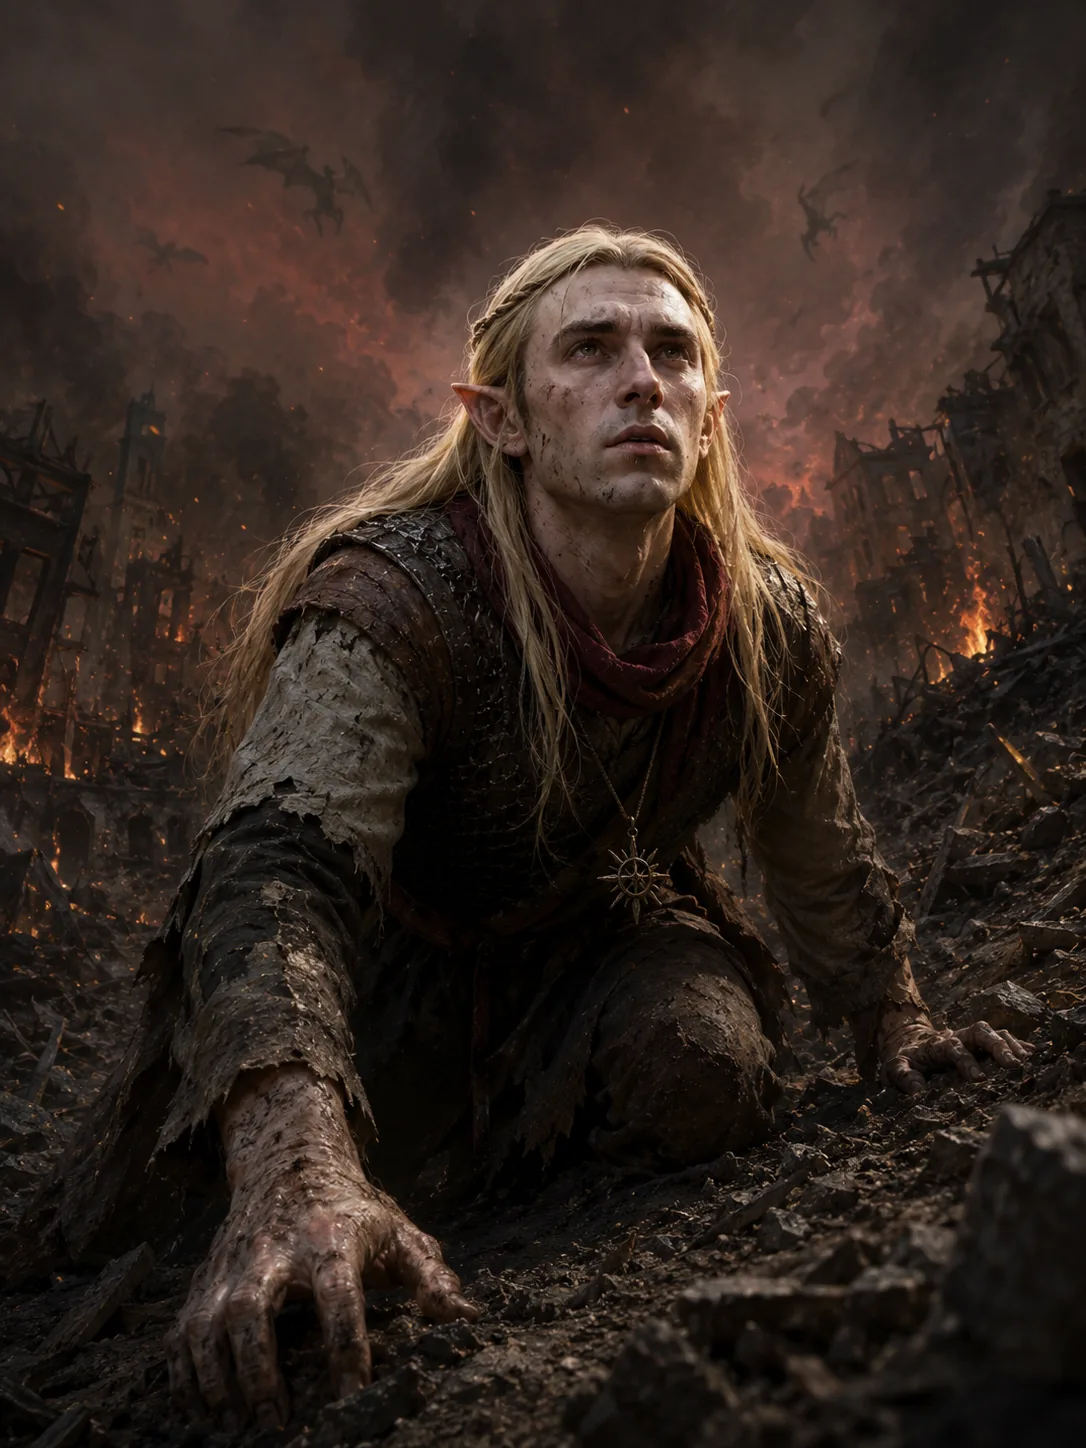
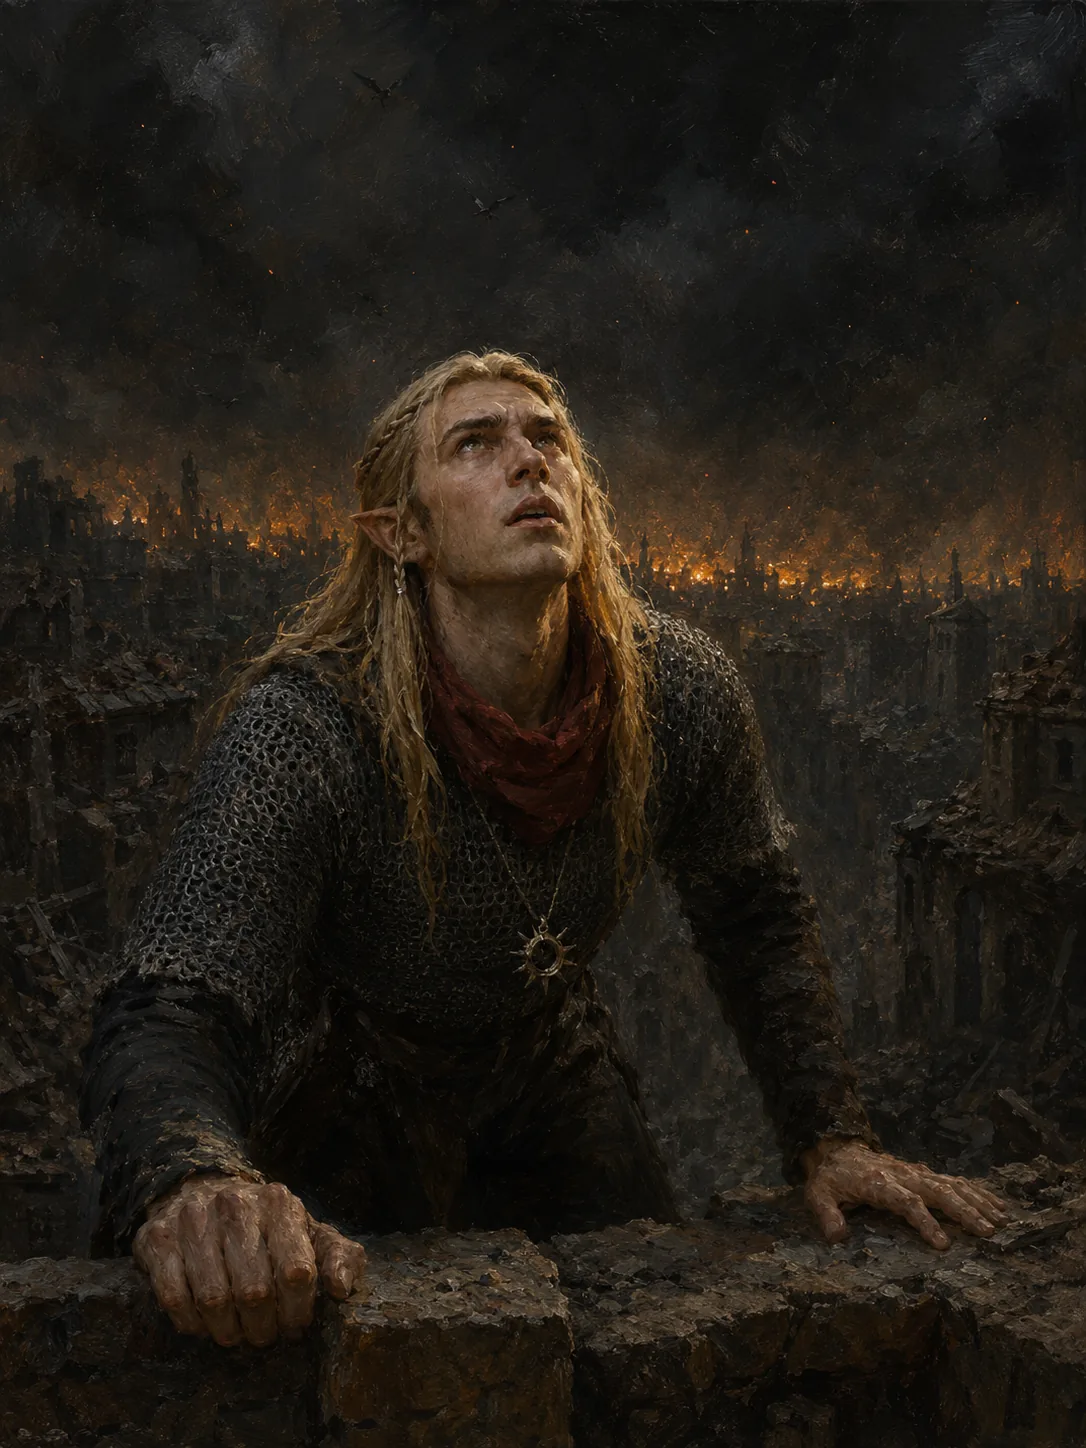
Re-roll the burning sky as a painting
The original was photoreal: wide-angle, near hand thrown huge into the
foreground, and a saturated orange-red sky over the whole frame. Rebuilt
from scratch on the style guide's medium block with the camera words in
Avoid.

The chapter text settled the palette -- the prose has the heavens hang
black and raining embers -- so the sky is near-black and the one warm
accent is a band of burning quarters confined to the horizon. Camera on a
normal lens with the hands at true proportion.

Holds its job as the Era I exemplar in the kit guide: chain shirt over
travel robes, deep-red scarf, bare sunburst with no sword, no gold and no
mantle.

Accepted drift: the sunburst reads brass rather than dull iron, and the
instant is half a beat earlier than the old plate -- hauling himself over
the lip rather than already up on hands and knees.

diff --git a/bible/07-art-reroll-list.md b/bible/07-art-reroll-list.md
@@ -20,20 +20,6 @@ with a counter-example.
 
 ## To do
 
-### `the-burning-sky.webp` — **wrong style**
-*Book I, "Varic claws his way up to his first open sky in days" — Kenabres broken above him.*
-
-It is a **photograph, not a painting**: photoreal skin, a wide-angle lens look with the near hand
-thrown huge into the foreground, and a saturated orange-red sky filling the whole frame. The house
-look wants a traditional oil painting, a muted earthy palette, and **one** luminous accent rather
-than an all-over red wash. Lead the prompt with the medium block from the style guide and put the
-camera words in `Avoid:`. The pose and the beat are right — he is on his hands and knees at the top
-of the climb, looking up at a sky he expected to be daylight — so keep them.
-
-**Cited as an exemplar:** `05-kit-and-timeline.md` Era I uses it for *"Varic's Era I kit — the humble
-priest, no gold."* The re-roll must keep that legible: chain shirt or padded leather over travel
-robes, deep-red scarf, plain iron sunburst, **no gold filigree, no mantle**.
-
 ### `the-doors-that-would-not-open.webp` — **Harlock unconvincing, and the style is wrong**
 *Book II Ch. IX, "The Silencing of the Catapults" — while the fight rages above him, Varic kneels at
 an ironbound door and makes it stop being a door at all.*
@@ -215,6 +201,23 @@ Regenerate to the humble kit, or accept the drift and note it as accepted.
 ---
 
 ## Done
+
+### `the-burning-sky.webp` — re-rolled Aug 2026
+*Book I, "The Sundered Sky".*
+
+The original was a photograph — photoreal skin, a wide-angle look with the near hand thrown huge into
+the foreground, and a saturated orange-red sky filling the frame. Rebuilt from scratch on the medium
+block, with every camera word in `Avoid:`. **The chapter text settled the palette argument**: the
+prose says the heavens hang *black* and raining embers, so the sky is now near-black and turbulent
+and the single warm accent is a low band of burning quarters confined to the horizon, rimming his
+jaw and shoulder from below. The picture reads dark grey, not orange. Camera moved to a normal lens
+with the hands pinned to true proportion.
+
+Still the Era I exemplar in `05-kit-and-timeline.md` — the battered chain shirt over travel robes,
+the deep-red scarf, the bare sunburst with no sword, and no gold or mantle anywhere all survive.
+**Two accepted drifts:** the sunburst renders brass-toned rather than dull iron, and the instant sits
+half a beat earlier than the old plate — he is hauling himself over the lip rather than already up on
+hands and knees, which suits the caption's *"claws his way up"* at least as well.
 
 ### `rabiahs-raw-magic.webp` — re-rolled Aug 2026
 *Book I, "The Hall of the Horned Lord".*
